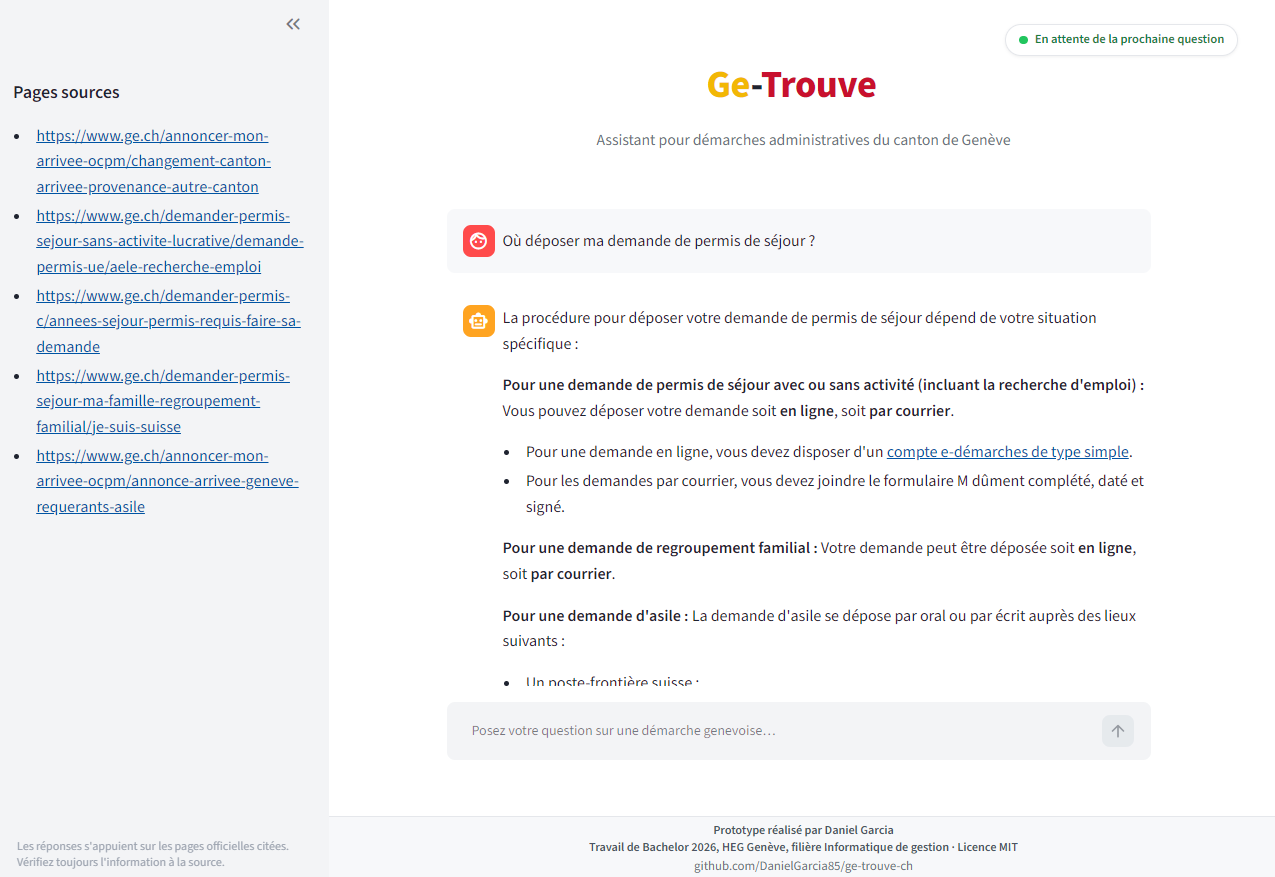
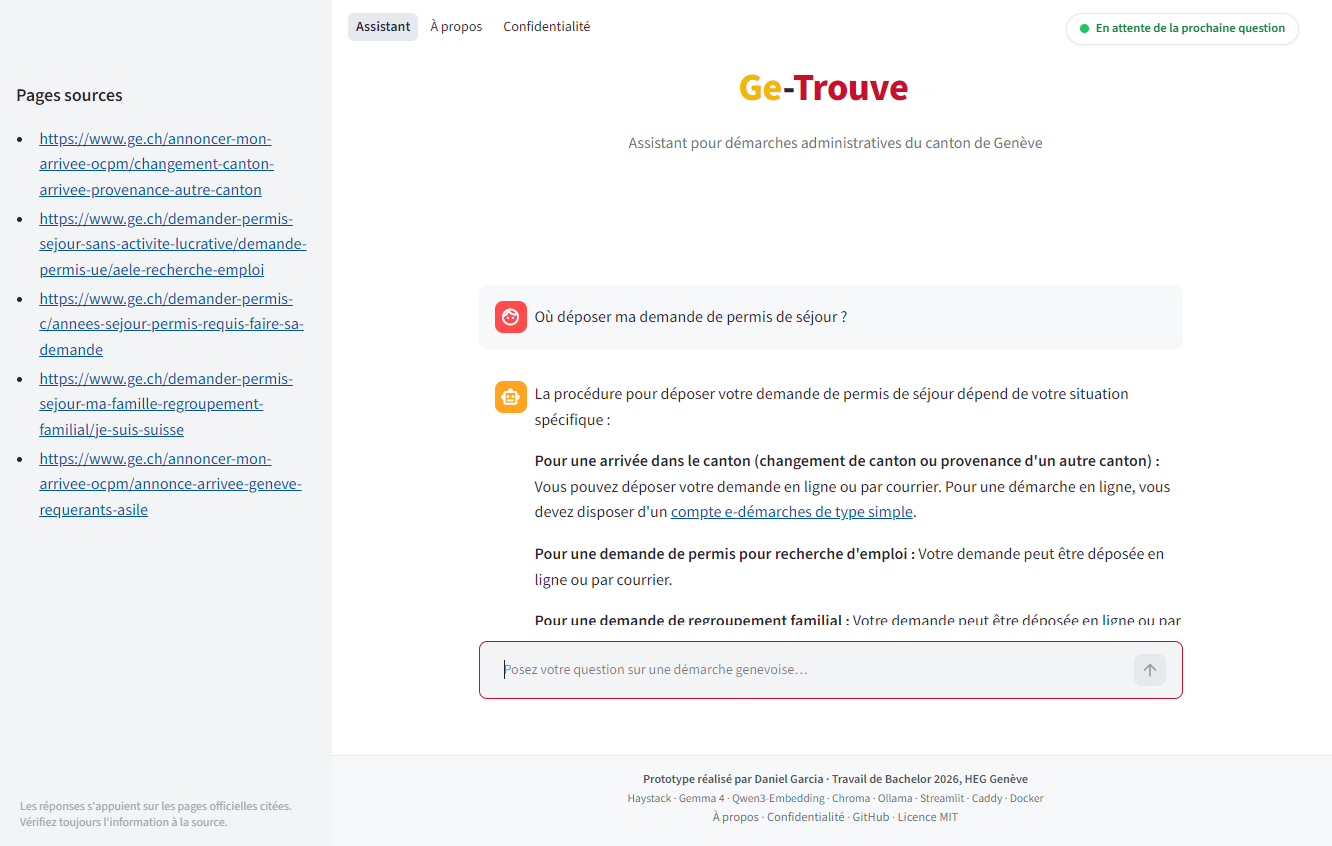
docs: refonte du README, captures de la nouvelle interface

diff --git a/src/app/commun.py b/src/app/commun.py
@@ -78,6 +78,11 @@ def appliquer_styles():
                             color: #1F2430; }}
           .titre-page p {{ color: #6B7280; margin: 0.2rem 0 0; font-size: 0.98rem; }}
 
+          /* Pas d'icône de lien au survol des deux grands titres (en-tête de l'assistant, titre des
+             pages de texte) : Streamlit en ajoute une à chaque titre. Les titres de section la gardent. */
+          .entete [data-testid="stHeaderActionElements"],
+          .titre-page [data-testid="stHeaderActionElements"] {{ display: none; }}
+
           /* Marges par défaut des pages de texte : le titre se place à la hauteur de celui de
              l'assistant, et le contenu défile entièrement au-dessus du pied de page.
              L'assistant impose ses propres marges (en-tête figé). */

diff --git a/README.md b/README.md
@@ -1,14 +1,41 @@
+<p align="center">
+  <img src="src/app/assets/logo_ge-trouve_horizontal.svg" width="360" alt="Ge-Trouve">
+</p>
 
+<p align="center">
+  <em>Assistant conversationnel RAG en français pour les démarches administratives du canton de Genève,
+  exécuté entièrement sur un serveur suisse.</em>
+</p>
 
-# Ge-Trouve
+<p align="center">
+  <a href="https://github.com/DanielGarcia85/ge-trouve-ch/actions/workflows/deploy.yml"><img src="https://img.shields.io/github/actions/workflow/status/DanielGarcia85/ge-trouve-ch/deploy.yml?branch=main&style=flat&label=d%C3%A9ploiement" alt="État du déploiement"></a>
+  <a href="LICENSE"><img src="https://img.shields.io/github/license/DanielGarcia85/ge-trouve-ch?style=flat&label=licence" alt="Licence MIT"></a>
+  <img src="https://img.shields.io/badge/Python-3.13-3776AB?style=flat&logo=python&logoColor=white" alt="Python 3.13">
+  <img src="https://img.shields.io/badge/Haystack-3.0-1C3D5A?style=flat" alt="Haystack 3.0">
+  <img src="https://img.shields.io/badge/Ollama-0.32-000000?style=flat&logo=ollama&logoColor=white" alt="Ollama 0.32">
+  <img src="https://img.shields.io/badge/Streamlit-1.62-FF4B4B?style=flat&logo=streamlit&logoColor=white" alt="Streamlit 1.62">
+  <img src="https://img.shields.io/badge/Docker-Compose-2496ED?style=flat&logo=docker&logoColor=white" alt="Docker Compose">
+  <a href="https://ge-trouve.ch"><img src="https://img.shields.io/badge/en%20ligne-ge--trouve.ch-C8102E?style=flat" alt="Service en ligne : ge-trouve.ch"></a>
+</p>
 
-<img src="src/app/assets/logo_ge-trouve.png" align="right" width="60">
+<p align="center">
+  <a href="https://ge-trouve.ch">Service en ligne</a> ·
+  <a href="#fonctionnalités">Fonctionnalités</a> ·
+  <a href="#architecture">Architecture</a> ·
+  <a href="#schémas">Schémas</a> ·
+  <a href="#résultats-de-lévaluation">Résultats</a> ·
+  <a href="#démarrer-en-local">Démarrer en local</a>
+</p>
 
-Assistant conversationnel RAG en français pour les démarches administratives du canton de Genève. Exécution entièrement locale sur un serveur suisse, réponses sourcées vers les pages officielles.
+Ge-Trouve répond en français simple aux questions sur les démarches administratives du canton de
+Genève. Il retrouve les passages utiles dans les pages officielles de ge.ch et geneve.ch, rédige une
+réponse et cite ses sources, pour que chacun puisse vérifier. Les modèles de langage tournent sur le
+serveur du projet, en Suisse : aucune question ne part vers un service d'intelligence artificielle
+externe.
 
-**Service en ligne : [https://ge-trouve.ch](https://ge-trouve.ch)**
-
-![Aperçu de l'interface Ge-Trouve](resultats/interface/capture_reponse.PNG)
+<p align="center">
+  <img src="resultats/interface/capture_reponse.PNG" width="760" alt="Ge-Trouve : réponse à la question « Où déposer ma demande de permis de séjour ? », avec les pages sources dans la barre latérale">
+</p>
 
 > **Avertissement.** Ge-Trouve est un prototype développé dans le cadre d'un travail de Bachelor. Ce n'est pas un service officiel de l'État de Genève. Les réponses s'appuient sur les pages officielles citées, mais peuvent contenir des erreurs : vérifiez toujours l'information à la source avant d'agir.
 
@@ -19,14 +46,15 @@ Assistant conversationnel RAG en français pour les démarches administratives d
 | | |
 |---|---|
 | **Titre** | Ge-Trouve : Conception, développement et évaluation d'un assistant conversationnel RAG en français pour les démarches administratives du canton de Genève |
-| **Type** | Travail de Bachelor |
+| **Type** | Travail de Bachelor, mené seul |
 | **Institution** | Haute école de gestion de Genève (HEG-Genève), filière Informatique de gestion |
 | **Auteur** | Daniel Garcia |
 | **Directeur de mémoire** | Frédéric Mencier |
-| **Année** | 2026 |
-| **Mémoire** | `memoire/TB_Ge-Trouve_DanielGarcia.docx` |
+| **Remise et soutenance** | 31 août 2026 et 14 septembre 2026 |
+| **Évaluation** | mémoire 5,6/6, soutenance 5,8/6 |
+| **Mémoire** | [`memoire/TB_Ge-Trouve_DanielGarcia.pdf`](memoire/TB_Ge-Trouve_DanielGarcia.pdf) (version remise, aussi jointe à la [release `v1.0.0`](https://github.com/DanielGarcia85/ge-trouve-ch/releases/tag/v1.0.0)) ; source `.docx` dans `memoire/` |
 
-Le travail est documenté dans un **mémoire** de Bachelor (`memoire/TB_Ge-Trouve_DanielGarcia.docx`) : le document écrit qui accompagne ce dépôt et développe toute la démarche, de la revue de la littérature RAG et des choix de technologies jusqu'à la construction du système et à son évaluation. Ce dépôt en est la réalisation logicielle.
+Le mémoire est le document écrit qui accompagne ce dépôt : il développe toute la démarche, de la revue de la littérature RAG et des choix de technologies jusqu'à la construction du système et à son évaluation. Ce dépôt en est la réalisation logicielle.
 
 **Question de recherche :** dans quelle mesure un système RAG appliqué à des documents administratifs en français produit-il des réponses fiables et pertinentes pour des utilisateurs non-experts ?
 
@@ -43,7 +71,26 @@ L'information administrative genevoise est publique, mais dispersée sur des mil
 - Pages sources de chaque réponse affichées dans la barre latérale
 - Refus explicite (« je ne sais pas ») quand la question sort du corpus, avec orientation
 - Affichage de la réponse en *streaming*, mot à mot
+- Message clair en français si le service ne peut pas répondre
+- Pages « À propos » (le projet, sa construction, ses technologies) et « Confidentialité » (ce que le site fait réellement des données)
 - Aucune donnée d'usager ne quitte le serveur ; aucun compte, aucun historique conservé
+
+<details>
+<summary><b>Plus de captures</b> (cliquer pour déplier)</summary>
+
+La page au repos, avant toute question :
+
+![Ge-Trouve au repos : navigation en haut, champ de question, barre latérale des sources vide](resultats/interface/capture_repos.PNG)
+
+La page « À propos » : le cadre du travail, le fonctionnement, les technologies, avec un sommaire dans la barre latérale :
+
+![Page « À propos » de Ge-Trouve](resultats/interface/capture_a_propos.png)
+
+La page « Confidentialité » : ce que le site fait réellement des questions, des journaux et des cookies :
+
+![Page « Confidentialité » de Ge-Trouve](resultats/interface/capture_confidentialite.png)
+
+</details>
 
 ## Pile technique
 
@@ -52,35 +99,40 @@ L'information administrative genevoise est publique, mais dispersée sur des mil
 | Langage | Python | 3.13 | Socle du projet |
 | Framework RAG | [Haystack](https://haystack.deepset.ai/) (`haystack-ai`) | 3.0.0 | Assemblage explicite du pipeline |
 | Intégrations | `ollama-haystack`, `chroma-haystack` | 6.8.0, 4.4.0 | Connecteurs Ollama et Chroma |
-| Serveur de modèles | [Ollama](https://ollama.com/) | ≥ 0.32 | Exécution locale des modèles |
+| Serveur de modèles | [Ollama](https://ollama.com/) | 0.32.6 (production) | Exécution locale des modèles |
 | LLM (rédacteur) | Gemma 4 12B Instruct (`gemma4:12b`) | Q4_K_M, 7,6 Go | Génération des réponses, mode direct (`think:false`) |
 | Embeddings | Qwen3-Embedding-0.6B (`qwen3-embedding:0.6b`) | Q8_0, 639 Mo | Vecteurs de 1 024 dimensions |
 | LLM (repli et juge) | Llama 3.1 8B Instruct (`llama3.1:8b`) | Q4_K_M, 4,9 Go | Repli documenté ; juge d'évaluation (hors production) |
 | Base vectorielle | [Chroma](https://www.trychroma.com/) | embarquée | Stockage et recherche des fragments, filtrage par métadonnées |
-| Interface | [Streamlit](https://streamlit.io/) | 1.x | Page de conversation |
-| Serveur frontal | [Caddy](https://caddyserver.com/) | 2.x | HTTPS automatique (Let's Encrypt), reverse proxy |
+| Extraction | [Trafilatura](https://trafilatura.readthedocs.io/) | 2.2.0 | Texte des pages officielles, liens conservés |
+| Interface | [Streamlit](https://streamlit.io/) | 1.62.0 | Conversation, pages « À propos » et « Confidentialité » |
+| Serveur frontal | [Caddy](https://caddyserver.com/) | 2 | HTTPS automatique (Let's Encrypt), reverse proxy |
 | Conteneurisation | Docker Compose | | Quatre services (voir Déploiement) |
 | Évaluation | [RAGAS](https://docs.ragas.io/) + LangChain-Ollama | 0.4.3 | Métriques RAG, juge local (machine de développement uniquement) |
 
-Toutes les licences des composants sont permissives (Apache 2.0, MIT). Versions épinglées dans `requirements.txt`.
+Les bibliothèques et les deux modèles de production sont sous licences permissives (Apache 2.0, MIT). Llama 3.1, utilisé seulement comme juge d'évaluation hors production, relève de la *Llama 3.1 Community License* de Meta. Versions épinglées dans `requirements.txt`.
 
 ## Architecture
 
-```
-                        EN LIGNE (à chaque question)
-┌───────────┐  HTTPS   ┌───────┐    ┌───────────────┐    ┌──────────────────────────┐
-│Utilisateur│ ───────► │ Caddy │ ─► │ Streamlit     │ ─► │ Pipeline Haystack        │
-└───────────┘          │(proxy)│    │ (src/app)     │    │ 1. encodage (Qwen)       │
-                       └───────┘    └───────────────┘    │ 2. recherche (Chroma)    │◄┐
-                                                         │ 3. génération (Gemma)    │ │
-                                                         └──────────────────────────┘ │
-                        HORS LIGNE (indexation, en amont)                             │
-┌──────────────┐  ┌──────────┐  ┌───────────┐  ┌────────────┐  ┌──────────────┐       │
-│ Manifeste    │─►│ Scraping │─►│ Découpage │─►│ Embeddings │─►│ Chroma (base)│───────┘
-└──────────────┘  └──────────┘  └───────────┘  └────────────┘  └──────────────┘
-```
+<p align="center">
+  <img src="docs/schemas/architecture.svg" width="830" alt="Architecture : en ligne, l'usager passe par Caddy et Streamlit vers le pipeline Haystack (encodage Qwen, recherche Chroma, génération Gemma) ; hors ligne, manifeste, scraping, découpage et embeddings alimentent la base Chroma">
+</p>
 
-Tout s'exécute sur une seule machine. En production comme au développement, aucun appel n'est émis vers un service d'intelligence artificielle externe.
+- **En ligne, à chaque question** : l'usager atteint le serveur en HTTPS ; Caddy relaie vers l'interface Streamlit, qui appelle directement le pipeline Haystack. La question est encodée par Qwen, Chroma renvoie les cinq fragments les plus proches, et Gemma rédige la réponse à partir de ces seuls extraits.
+- **Hors ligne, en amont** : les pages listées au manifeste sont aspirées, découpées en fragments de 200 mots, encodées et rangées dans Chroma, avec leur adresse et leur date de capture.
+- Tout s'exécute sur une seule machine. En production comme au développement, aucun appel n'est émis vers un service d'intelligence artificielle externe.
+- Chaque question est traitée seule : le modèle ne reçoit que la question courante et ses extraits.
+
+## Schémas
+
+Dans [`docs/schemas/`](docs/schemas), en versions compactes des figures du mémoire.
+
+| Schéma | Ce qu'il montre |
+|---|---|
+| [Architecture](docs/schemas/architecture.svg) | Les deux chaînes : la réponse en ligne et l'indexation hors ligne. |
+| [Production](docs/schemas/production.svg) | Les quatre conteneurs sur le serveur suisse, le seul point exposé, la livraison par le runner. |
+| [Indexation](docs/schemas/indexation.svg) | Ce que la chaîne d'indexation crée sur la machine : un JSON par page, puis la base Chroma. |
+| [Évaluation](docs/schemas/evaluation.svg) | Le banc RAGAS : le pipeline figé produit les traces, un juge local les note. |
 
 ## Corpus et sources de données
 
@@ -95,6 +147,13 @@ Chiffres du corpus indexé : **4 322 pages** au manifeste (4 304 aspirées), **9
 
 Le scraping respecte le `robots.txt` de chaque domaine, s'identifie par un agent dédié (`GeTrouveBot`) et applique un délai de politesse de deux secondes entre chaque requête. Le corpus brut n'est pas versionné : il se régénère à la demande depuis le manifeste.
 
+<details>
+<summary><b>Schéma : la chaîne d'indexation</b> (cliquer pour déplier)</summary>
+
+![Chaîne d'indexation : pages en ligne, un fichier JSON par page, base Chroma lue à chaque question](docs/schemas/indexation.svg)
+
+</details>
+
 ## Résultats de l'évaluation
 
 Protocole : vingt questions genevoises écrites à la main (seize avec réponse attendue, quatre volontairement hors périmètre), quatre métriques RAGAS calculées en local (juge Llama 3.1 8B, d'une autre famille que le rédacteur), contrôle humain à l'aveugle sur un quart des réponses.
@@ -107,6 +166,13 @@ Protocole : vingt questions genevoises écrites à la main (seize avec réponse 
 | Pertinence de la réponse | 0,71 |
 
 Constats principaux : la recherche documentaire est le point fort ; aucune invention pure n'a été observée (les erreurs de fidélité sont des fusions de passages voisins) ; la pertinence souffre de réponses trop longues ; le refus hors périmètre a fonctionné sur trois questions sur quatre. Analyse complète au chapitre 12 du mémoire ; scores détaillés et traces dans `resultats/evaluation/`.
+
+<details>
+<summary><b>Schéma : le banc d'évaluation</b> (cliquer pour déplier)</summary>
+
+![Banc d'évaluation : le pipeline figé produit les traces, RAGAS les note avec un juge local d'une autre famille](docs/schemas/evaluation.svg)
+
+</details>
 
 ## Démarrer en local
 
@@ -158,9 +224,16 @@ L'ingestion est idempotente et reprend où elle s'est arrêtée en cas d'interru
 streamlit run src/app/app.py
 ```
 
-L'application s'ouvre dans le navigateur. Le tout premier appel charge les modèles en mémoire (compter une à deux minutes par réponse) ; les réglages (modèles, top-k, échantillonnage) se lisent dans `src/config.py` et se surchargent par variables d'environnement.
+L'application s'ouvre dans le navigateur, sur la page « Assistant » ; les pages « À propos » et « Confidentialité » sont dans la navigation en haut. Le tout premier appel charge les modèles en mémoire (compter une à deux minutes par réponse) ; les réglages (modèles, top-k, échantillonnage) se lisent dans `src/config.py` et se surchargent par variables d'environnement.
 
 ## Déploiement en production
+
+<details>
+<summary><b>Schéma : la production</b> (cliquer pour déplier)</summary>
+
+![Production : quatre conteneurs Docker sur le serveur suisse, seul Caddy exposé, déploiement par un runner GitHub auto-hébergé](docs/schemas/production.svg)
+
+</details>
 
 La production tourne sur un serveur virtuel suisse (Infomaniak, 6 vCPU / 18 Go, Ubuntu 24.04, processeur seul), orchestrée par Docker Compose (`deploy/docker-compose.yml`) en quatre services :
 
@@ -175,15 +248,22 @@ La production tourne sur un serveur virtuel suisse (Infomaniak, 6 vCPU / 18 Go, 
 docker compose -f deploy/docker-compose.yml up -d --build
 ```
 
-Points d'exploitation : la base Chroma est construite en local puis copiée sur le serveur (rien ne se re-scrape depuis le VPS) ; une seule génération à la fois est autorisée (`OLLAMA_NUM_PARALLEL=1`, garde-fou mémoire) ; aucun fichier de secrets, la configuration vit dans l'environnement. Le déploiement est continu : chaque poussée sur la branche principale déclenche un redéploiement via un *runner* GitHub Actions auto-hébergé sur le serveur (`.github/workflows/deploy.yml`) ; seules les poussées directes déploient, jamais les contributions externes.
+- La base Chroma est construite en local puis copiée sur le serveur : rien ne se re-scrape depuis le VPS.
+- Une seule génération à la fois est autorisée (`OLLAMA_NUM_PARALLEL=1`, garde-fou mémoire).
+- Aucun fichier de secrets : la configuration vit dans l'environnement.
+- Streamlit est lancé avec l'adresse publique du site (sinon il interroge un service externe au démarrage pour deviner l'adresse IP du serveur) et sans afficher le détail des erreurs aux visiteurs ; les journaux des conteneurs sont limités en taille.
+- Je travaille sur la branche `develop` ; `main` est ce qui tourne en production. Chaque poussée sur `main` qui touche le code ou la configuration déclenche un redéploiement par un *runner* GitHub Actions auto-hébergé sur le serveur (`.github/workflows/deploy.yml`) ; seules les poussées directes déploient, jamais les contributions externes.
 
 ## Structure du dépôt
 
 ```
 ge-trouve-ch/
 ├── src/
-│   ├── app/app.py               # interface Streamlit
-│   ├── app/assets/              # logo et favicon (SVG, PNG)
+│   ├── app/                     # interface Streamlit
+│   │   ├── app.py               # point d'entrée : configuration, navigation, pied de page
+│   │   ├── commun.py            # éléments partagés (styles, titre et sommaire des pages)
+│   │   ├── vues/                # pages : assistant, à propos, confidentialité
+│   │   └── assets/              # logos et favicon (SVG, PNG)
 │   ├── repondre.py              # pipeline de réponse (point d'entrée)
 │   ├── config.py                # configuration centralisée (modèles, réglages)
 │   ├── pull_modeles.py          # provisionnement des modèles Ollama
@@ -210,11 +290,12 @@ ge-trouve-ch/
 ├── .github/workflows/           # déploiement continu (deploy.yml)
 ├── docs/
 │   ├── architecture.md          # documentation technique
+│   ├── schemas/                 # schémas du README (SVG)
 │   ├── plan_developpement.md    # plan des étapes (Partie 2 et Partie 3)
 │   ├── reconstruire_la_base.md  # guide de régénération du corpus et de la base
 │   ├── journal_des_decisions.md # une entrée datée par décision
 │   └── journal_des_mesures.md   # toutes les mesures, datées et reproductibles
-└── memoire/                     # mémoire (docx), bibliographie (.ris), figures (SVG)
+└── memoire/                     # mémoire (docx, PDF), bibliographie (.ris), figures (SVG)
 ```
 
 ## Limites connues
